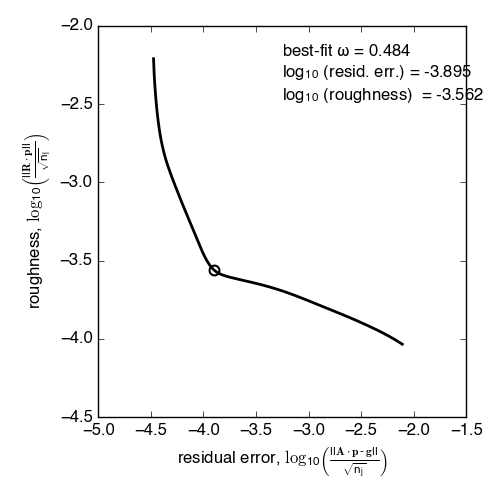
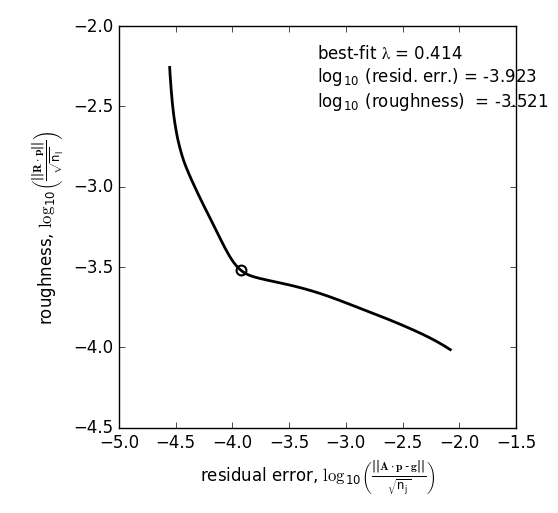
further nomenclature updates, updated walkthrough images

diff --git a/rampedpyrox/results.py b/rampedpyrox/results.py
@@ -596,7 +596,7 @@ class RpoIsotopes(Results):
 		DE : scalar
 			Value for the difference in E between 12C- and 13C-containing
 			atoms, in kJ. Defaults to 0.0018 (the best-fit value calculated
-			in Hemingway et al., **2017**).
+			in Hemingway et al., Radiocarbon, **2017**).
 
 		file : str or pd.DataFrame
 			File containing RPO isotope data, either as a string pointing
@@ -639,7 +639,7 @@ class RpoIsotopes(Results):
 		[1] J.D. Hemingway et al. (2017) Assessing the blank carbon
 			contribution, isotope mass balance, and kinetic isotope 
 			fractionation of the ramped pyrolysis/oxidation instrument at 
-			NOSAMS. *Radiocarbon*
+			NOSAMS. *Radiocarbon*, **59**, 179-193.
 		'''
 
 		#extract data from file
@@ -730,7 +730,7 @@ class RpoIsotopes(Results):
 		[1] J.D. Hemingway et al. (2017) Assessing the blank carbon
 			contribution, isotope mass balance, and kinetic isotope 
 			fractionation of the ramped pyrolysis/oxidation instrument at 
-			NOSAMS. *Radiocarbon*
+			NOSAMS. *Radiocarbon*, **59**, 179-193.
 		'''
 
 		#raise warnings
@@ -855,7 +855,7 @@ class RpoIsotopes(Results):
 		DE : scalar
 			Value for the difference in E between 12C- and 13C-containing
 			atoms, in kJ. Defaults to 0.0018 (the best-fit value calculated
-			in Hemingway et al., **2017**).
+			in Hemingway et al., Radiocarbon, **2017**).
 
 		Warnings
 		--------
@@ -867,7 +867,7 @@ class RpoIsotopes(Results):
 		[1] J.D. Hemingway et al. (2017) Assessing the blank carbon
 			contribution, isotope mass balance, and kinetic isotope 
 			fractionation of the ramped pyrolysis/oxidation instrument at 
-			NOSAMS. *Radiocarbon*
+			NOSAMS. *Radiocarbon*, **59**, 179-193.
 		'''
 
 		#raise warnings

diff --git a/rampedpyrox/ratedata.py b/rampedpyrox/ratedata.py
@@ -325,7 +325,7 @@ class EnergyComplex(RateData):
 			E_max (kJ/mol), \n
 			E_mean (kJ/mol), \n
 			E_std (kJ/mol), \n
-			p0E_max (unitless)
+			p0E_max
 
 	lam : float
 		Tikhonov regularization weighting factor.
@@ -493,7 +493,7 @@ class EnergyComplex(RateData):
 		'''
 
 		#create axis label tuple
-		labs = (r'E (kJ/mol)', r'$p(0, E)$ (unitless)')
+		labs = (r'E (kJ/mol)', r'$p(0, E)$')
 
 		#check if data exist
 		if hasattr(self, 'p'):

diff --git a/docs/walkthrough.rst b/docs/walkthrough.rst
@@ -50,7 +50,7 @@ Basic runthrough::
 		blk_corr = True, #uses values for NOSAMS instrument
 		bulk_d13C_true = [-24.9, 0.1], #true d13C value
 		mass_err = 0.01,
-		DE = 0.0018) #value from Hemingway et al., 2017
+		DE = 0.0018) #value from Hemingway et al. (2017), Radiocarbon
 
 	#compare corrected isotopes and E values
 	print(ri.ri_corr_info)
@@ -263,7 +263,8 @@ One critical user input for the DAEM is the Arrhenius pre-exponential factor, *o
 For convenience, you can create any model directly from either time data or rate data, rather than manually inputting time, temperature, and rate vectors. Here, I create a DAEM using the thermogram defined above and allow E to range from 50 to 400 kJ/mol::
 
 	#define log10omega, assume constant value of 10
-	log10omega = 10 #value advocated in Hemingway et al. (2017) Biogeosciences
+	#value advocated in Hemingway et al. (2017) Biogeosciences
+	log10omega = 10
 
 	#define E range (in kJ/mol)
 	E_min = 50
@@ -499,7 +500,7 @@ Which generates a plot like this:
 
 Importing and correcting isotope values
 ---------------------------------------
-At this point, the thermogram, DAEM model, and p(0,E) distribution have all been created. Now, the next step is to import the RPO isotope values and to calculate the distribution of E values corresponding to each RPO fraction. This is This is done by creating an ``rp.RpoIsotopes`` instance using the ``from_csv`` method. If the sample was run on the NOSAMS Ramped PyrOx instrument, setting ``blank_corr = True`` and an appropriate value for ``mass_err`` will automatically blank-correct values according to the blank carbon estimation of Hemingway et al. (2017) [9]_ [10]_. Additionally, if :sup:`13`\ C isotope composition was measured, these can be further corrected for any mass-balance discrepancies and for kinetic isotope fractionation within the RPO instrument [5]_ [9]_.
+At this point, the thermogram, DAEM model, and p(0,E) distribution have all been created. Now, the next step is to import the RPO isotope values and to calculate the distribution of E values corresponding to each RPO fraction. This is This is done by creating an ``rp.RpoIsotopes`` instance using the ``from_csv`` method. If the sample was run on the NOSAMS Ramped PyrOx instrument, setting ``blank_corr = True`` and an appropriate value for ``mass_err`` will automatically blank-correct values according to the blank carbon estimation of Hemingway et al. (2017), *Radiocarbon* [9]_ [10]_. Additionally, if :sup:`13`\ C isotope composition was measured, these can be further corrected for any mass-balance discrepancies and for kinetic isotope fractionation within the RPO instrument [5]_ [9]_.
 
 Here I create an ``rp.RpoIsotopes`` instance and input the measured data::
 	
@@ -508,7 +509,7 @@ Here I create an ``rp.RpoIsotopes`` instance and input the measured data::
 		daem,
 		ec,
 		blk_corr = True,
-		bulk_d13C_true = [-25.0, 0.1], #independently measured true mean, std.
+		bulk_d13C_true = [-25.0, 0.1], #measured true mean, std.
 		mass_err = 0.01, #1 percent uncertainty in mass
 		DE = 0.0018) #1.8 J/mol for KIE 
 
@@ -590,7 +591,7 @@ Additional Notes on the Kinetic Isotope Effect (KIE)
 ~~~~~~~~~~~~~~~~~~~~~~~~~~~~~~~~~~~~~~~~~~~~~~~~~~~~
 While the KIE has no effect on Fm values since they are fractionation-corrected by definition [11]_, mass-dependent kinetic fractionation effects must be explicitly accounted for when estimating the source carbon stable isotope composition during any kinetic experiment. For example, the KIE can lead to large isotope fractionation during thermal generation of methane and natural gas over geologic timescales [8]_ or during photodegradation of organic carbon by *uv* light [15]_.
 
-As such, the ``rampedpyrox`` package allows for direct input of `DE` values [DE = E(:sup:`13`\ C) - E(:sup:`12`\ C), in kJ/mol] when correcting Ramped PyrOx isotopes. However, the magnitude of this effect is likely minimal within the NOSAMS Ramped PyrOx instrument -- Hemingway et al. (2017) determined a best-fit value of 0.3e-3 - 1.8e-3 kJ/mol for a suite of standard reference materials [9]_ -- and will therefore lead to small isotope corrections for samples analyzed on this instrument (*i.e.* << 1 per mille)
+As such, the ``rampedpyrox`` package allows for direct input of `DE` values [DE = E(:sup:`13`\ C) - E(:sup:`12`\ C), in kJ/mol] when correcting Ramped PyrOx isotopes. However, the magnitude of this effect is likely minimal within the NOSAMS Ramped PyrOx instrument -- Hemingway et al. (2017), *Radiocarbon* determined a best-fit value of 0.3e-3 - 1.8e-3 kJ/mol for a suite of standard reference materials [9]_ -- and will therefore lead to small isotope corrections for samples analyzed on this instrument (*i.e.* << 1 per mille)
 
 Notes and References
 --------------------
